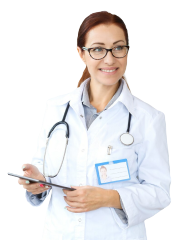
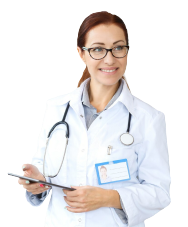
edit

diff --git a/src/Component/AllDoc.jsx b/src/Component/AllDoc.jsx
@@ -2,7 +2,6 @@ import React from 'react'
 import './AllDoc.css'
 import doctor1 from '../assets/images/doctor/doctor1 (1).png'
 import doctor2 from '../assets/images/doctor/doctor1 (2).png'
-import doctor3 from '../assets/images/doctor/doctor1 (3).png'
 import doctor4 from '../assets/images/doctor/doctor1 (4).png'
 
 
@@ -71,7 +70,7 @@ export const AllDoc = () => {
                            </div>
                            <div className="col-lg-3 col-md-4 col-sm-6 doctorRes">
                            <div className='shadow-md rounded-md  p-2 bg-[#C9D8FF] my-2 MyImg hover:cursor-pointer'>
-                                   <div className=''><img src={doctor3} alt="image" /></div>
+                                   <div className=''><img src={doctor1} alt="image" /></div>
            
                                     <div className='d-flex align-items-center pt-2'>
                                         <div className='w-[8px] h-[8px] rounded-full bg-[#0FBF00]'></div>
@@ -125,7 +124,7 @@ export const AllDoc = () => {
                            </div>
                            <div className="col-lg-3 col-md-4 col-sm-6 doctorRes">
                            <div className='shadow-md rounded-md  p-2 bg-[#C9D8FF] my-2 MyImg hover:cursor-pointer'>
-                                   <div className=''><img src={doctor3} alt="image" /></div>
+                                   <div className=''><img src={newDoc3} alt="image" /></div>
            
                                     <div className='d-flex align-items-center pt-2'>
                                         <div className='w-[8px] h-[8px] rounded-full bg-[#0FBF00]'></div>
@@ -304,7 +303,7 @@ export const AllDoc = () => {
                            </div>
                            <div className="col-lg-3 col-md-4 col-sm-6 doctorRes">
                            <div className='shadow-md rounded-md  p-2 bg-[#C9D8FF] my-2 MyImg hover:cursor-pointer'>
-                                   <div className=''><img src={doctor3} alt="image" /></div>
+                                   <div className=''><img src={newDoc5} alt="image" /></div>
            
                                     <div className='d-flex align-items-center pt-2'>
                                         <div className='w-[8px] h-[8px] rounded-full bg-[#0FBF00]'></div>
@@ -474,7 +473,7 @@ export const AllDoc = () => {
                            </div>
                            <div className="col-lg-3 col-md-4 col-sm-6 doctorRes">
                            <div className='shadow-md rounded-md  p-2 bg-[#C9D8FF] my-2 MyImg hover:cursor-pointer'>
-                                   <div className=''><img src={doctor3} alt="image" /></div>
+                                   <div className=''><img src={newDoc8} alt="image" /></div>
            
                                     <div className='d-flex align-items-center pt-2'>
                                         <div className='w-[8px] h-[8px] rounded-full bg-[#0FBF00]'></div>
@@ -592,7 +591,7 @@ export const AllDoc = () => {
                            </div>
                            <div className="col-lg-3 col-md-4 col-sm-6 doctorRes">
                            <div className='shadow-md rounded-md  p-2 bg-[#C9D8FF] my-2 MyImg hover:cursor-pointer'>
-                                   <div className=''><img src={doctor3} alt="image" /></div>
+                                   <div className=''><img src={newDoc6} alt="image" /></div>
            
                                     <div className='d-flex align-items-center pt-2'>
                                         <div className='w-[8px] h-[8px] rounded-full bg-[#0FBF00]'></div>
@@ -656,7 +655,7 @@ export const AllDoc = () => {
                            </div>
                            <div className="col-lg-3 col-md-4 col-sm-6 doctorRes">
                            <div className='shadow-md rounded-md  p-2 bg-[#C9D8FF] my-2 MyImg hover:cursor-pointer'>
-                                   <div className=''><img src={doctor3} alt="image" /></div>
+                                   <div className=''><img src={newDoc6} alt="image" /></div>
            
                                     <div className='d-flex align-items-center pt-2'>
                                         <div className='w-[8px] h-[8px] rounded-full bg-[#0FBF00]'></div>
@@ -710,7 +709,7 @@ export const AllDoc = () => {
                            </div>
                            <div className="col-lg-3 col-md-4 col-sm-6 doctorRes">
                            <div className='shadow-md rounded-md  p-2 bg-[#C9D8FF] my-2 MyImg hover:cursor-pointer'>
-                                   <div className=''><img src={doctor3} alt="image" /></div>
+                                   <div className=''><img src={newDoc6} alt="image" /></div>
            
                                     <div className='d-flex align-items-center pt-2'>
                                         <div className='w-[8px] h-[8px] rounded-full bg-[#0FBF00]'></div>

diff --git a/src/Component/TopDoctor.jsx b/src/Component/TopDoctor.jsx
@@ -2,7 +2,6 @@ import React from 'react'
 import './TopDoctor.css'
 import doctor1 from '../assets/images/doctor/doctor1 (1).png'
 import doctor2 from '../assets/images/doctor/doctor1 (2).png'
-import doctor3 from '../assets/images/doctor/doctor1 (3).png'
 import doctor4 from '../assets/images/doctor/doctor1 (4).png'
 export const TopDoctor = () => {
   return (
@@ -40,7 +39,7 @@ export const TopDoctor = () => {
                 </div>
                 <div className="col-lg-3 col-md-4 col-sm-6 doctorRes">
                 <div className='shadow-md rounded-md  p-2 bg-[#C9D8FF] my-2 MyImg hover:cursor-pointer'>
-                        <div className=''><img src={doctor3} alt="image" /></div>
+                        <div className=''><img src={doctor1} alt="image" /></div>
 
                          <div className='d-flex align-items-center pt-2'>
                              <div className='w-[8px] h-[8px] rounded-full bg-[#0FBF00]'></div>
@@ -94,7 +93,7 @@ export const TopDoctor = () => {
                 </div>
                 <div className="col-lg-3 col-md-4 col-sm-6 doctorRes">
                 <div className='shadow-md rounded-md  p-2 bg-[#C9D8FF] my-2 MyImg hover:cursor-pointer'>
-                        <div className=''><img src={doctor3} alt="image" /></div>
+                        <div className=''><img src={doctor1} alt="image" /></div>
 
                          <div className='d-flex align-items-center pt-2'>
                              <div className='w-[8px] h-[8px] rounded-full bg-[#0FBF00]'></div>
